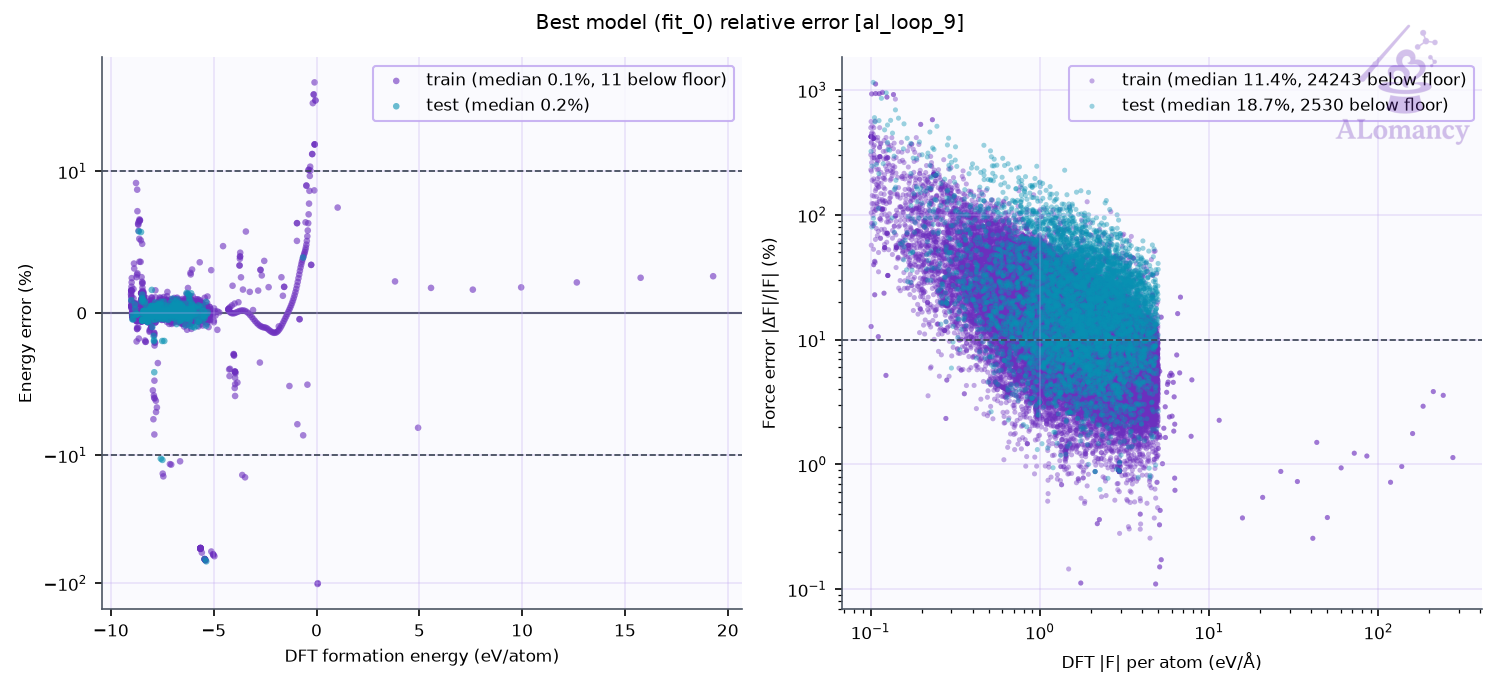
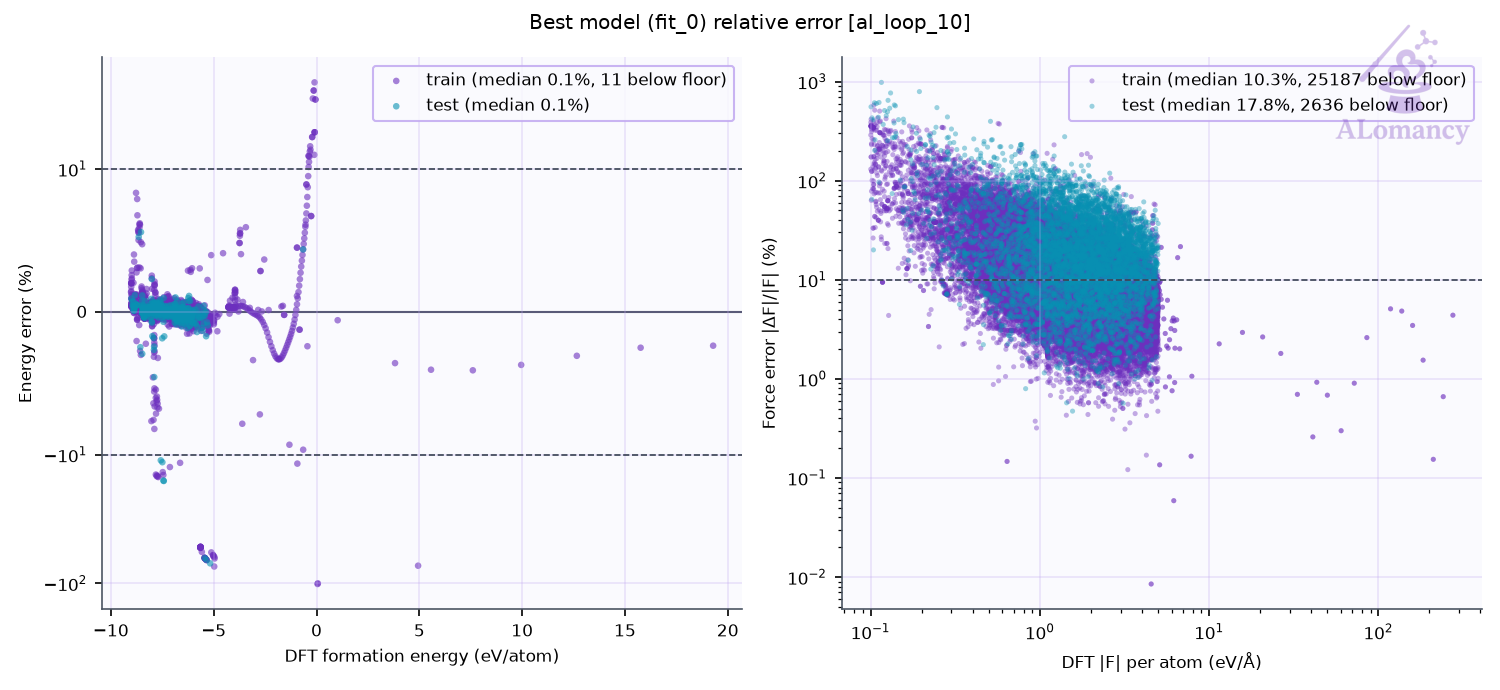
update good_c

diff --git a/alomancy/good_c/report/report.md b/alomancy/good_c/report/report.md
@@ -1,27 +1,25 @@
-# ALomancy report: al_loop_9
+# ALomancy report: al_loop_10
 
-Workflow `committee_uncertainty` · trainer `mace` · generator `md` · evaluator `qe` · generated 2026-11-14T14:02:43
+Workflow `committee_uncertainty` · trainer `mace` · generator `md` · evaluator `qe` · generated 2026-11-14T18:03:45
 
-**Status:** ✖ 2 errors · 💡 1 info · 12 warning(s) logged
+**Status:** ✓ no issues · 0 warning(s) logged
 
 ## Headline
 
-| | loop 8 | loop 9 | change |
+| | loop 9 | loop 10 | change |
 |---|---:|---:|---:|
-| Best model test force MAE (eV/Å) | 0.194 | 0.195 | +0% |
-| Best model test energy MAE (meV/atom) | 28.7 | 35.5 | +24% |
-| Training structures | 5.44e+03 | 5.59e+03 | +3% |
-| Test structures | 582 | 601 | +3% |
-| New structures this loop | 58 | 40 | -31% |
-| Warnings / errors logged | 17 | 12 | -29% |
+| Best model test force MAE (eV/Å) | 0.195 | 0.187 | -4% |
+| Best model test energy MAE (meV/atom) | 35.5 | 45.6 | +29% |
+| Training structures | 5.59e+03 | 5.59e+03 | +0% |
+| Test structures | 601 | 601 | +0% |
+| New structures this loop | 40 | 0 | -100% |
+| Warnings / errors logged | 12 | 0 | -100% |
 
 Best model: fit_0 of 3 (chosen on the `valid` split).
 
 ## Issues & suggestions
 
-- ✖ **remote_jobs_failed**: 8/156 remote jobs (5%) failed (7) or died (1). Check the job logs (results/alomancy.log has each failure's traceback); jobs killed by the scheduler usually need a longer max_time for that phase, or a partition with more memory.
-- ✖ **dft_partial_failure**: 8/100 structures sent to DFT (8%) came back without a result. Check the DFT output in results/<loop>/high_accuracy_evaluation; raise high_accuracy_evaluation.max_time / max_go_time if jobs timed out.
-- 💡 **queue_dominated**: high_accuracy_evaluation spent 51% of its time (15.3 h) queued. Raise max_num_of_concurrent_jobs in the HPC profile or use a less busy partition.
+No issues detected.
 
 ## Trends
 
@@ -37,6 +35,7 @@ Best model: fit_0 of 3 (chosen on the `valid` split).
 | 7 | 0.197 | 5308 | 21 | 32/100 | 100% | 0 | 71 |
 | 8 | 0.194 | 5440 | 58 | 86/100 | 99% | 0 | 17 |
 | 9 | 0.195 | 5592 | 40 | 92/100 | 96% | 0 | 12 |
+| 10 | 0.187 | 5592 | 0 | 0 | n/a | 0 | 0 |
 
 ![Best-model MAE per loop](plots/training_al_loop_mae_plot.png)
 
@@ -46,7 +45,7 @@ Best model: fit_0 of 3 (chosen on the `valid` split).
 
 ![Best model parity](plots/best_model_parity.png)
 
-Median relative error: train energy 0.1%, force 11.4%; test energy 0.2%, force 18.7%.
+Median relative error: train energy 0.1%, force 10.3%; test energy 0.1%, force 17.8%.
 Energies with |formation energy| < 0.05 eV/atom and atoms with |F| < 0.1 eV/Å are left out; force error is |ΔF|/|F| per atom.
 
 ![Best model percentage error](plots/best_model_percent_error.png)
@@ -68,71 +67,23 @@ Energies with |formation energy| < 0.05 eV/atom and atoms with |F| < 0.1 eV/Å a
 | on_hull_expansion | 11 | 0 | 9 | 20 |
 | **all** | **5592** | **601** | **1253** | **7446** |
 
-- Redundancy removal: 0 structure(s) flagged in total, 0 of this loop's 40 new.
-- DFT geometry-optimisation starting frames: 144 stored this loop, 131 used (the rest excluded by the train/test filters or redundancy removal).
+- Redundancy removal: 0 structure(s) flagged in total, 0 of this loop's 0 new.
 - Quality filters: high_force: 1244, formation_energy: 21.
 
 ![Training set composition](plots/training_set_composition.png)
 
-### Redundancy removal
-
-Redundancy removal flags near-duplicate training structures, so the model isn't trained on many copies of the same geometry. Each structure is described by `char_vec_128`: all of its interatomic distances, sorted and resampled to 128 values (`global_descriptor/atomic_distance_descriptor.make_char_vec`). Two structures count as duplicates when the Euclidean distance between their descriptors is below a tolerance: in database order, each structure still in the training set is kept unless it is within the tolerance of one already kept. The plot sweeps that tolerance and counts how many structures are kept at each value. **We are looking for plateaus** (shaded): ranges where the count doesn't change, so the result doesn't depend on the exact tolerance. The orange line (right axis) is the number of structures removed between consecutive tolerance steps, the gradient of the count: zero on a plateau. The start of the lowest plateau at least `general.redundancy_kwargs.min_plateau_width` of the swept range wide is used (dashed line). Nothing is flagged when no plateau qualifies, or when it would flag more than `max_flagged_fraction` of the structures; `general.redundancy_kwargs.tolerance` sets the tolerance directly.
-
-- This loop: 5,305 structures probed; the lowest plateau would flag more than 50% of them, so nothing was flagged.
-
-![Redundancy tolerance probe](plots/redundancy_tolerance_probe.png)
-
 ## DFT
 
-- Structures: 92 returned of 100 submitted (92 relaxed, 0 single point).
-- Geometry optimisation: 88/92 reached the force ceiling (0.05 eV/Å); steps mean 23.0, median 13, max 200 of 200 allowed.
-- Average DFT time per relaxation: 91.2 min (median 52.4, max 732.4; 92 structures).
-- Largest per-atom force after DFT: median 0.04, max 2.78 eV/Å.
-- DFT phase wall-clock: 30.3 h (mean queue time 918 min).
-
-**Structures evaluated with DFT this loop (final geometries)**
-
-![Structures evaluated with DFT this loop (final geometries)](plots/added_structures.gif)
+No DFT this loop.
 
 ## MLIP training: mace
 
-- Best fit (fit_0) trained for 299 epochs, stage two from epoch 240; weights kept from epoch 247.
+- Best fit (fit_0) trained for 299 epochs, stage two from epoch 240; weights kept from epoch 248.
 
 ![Best model training curve](plots/best_model_training_curve.png)
-
-## Structure generation: MD
-
-- Runs: 50 (50 completed, 0 seed(s) replaced)
-- Frames: 10000 recorded, 8933 physical (no bond < 0.5 Å, volume ≤ 3 x the seed's; 1017 frame(s) cut after a run expanded past it, seed frames left out), 1000 picked as candidates, spread over each run
-- Ensemble npt, T = 500 K, timestep 0.2 fs
-
-![MD frames per run](plots/md_frames_per_run.png)
-
-![MD temperature](plots/md_temperature.png)
-
-## High-accuracy evaluation: QE
-
-![DFT geometry steps](plots/dft_geometry_steps.png)
-
-![DFT wall time](plots/dft_wall_time.png)
-
-## Selection: committee uncertainty
-
-- 985 candidates scored; 100 selected (10 %; max force std dev ≥ 0.458 eV/Å).
-
-![Committee force std dev](plots/committee_force_std_dev.png)
 
 ## Warnings and events
 
 | event | meaning | count |
 |---|---|---:|
-| `blown_up_excluded` | blown-up cells kept from DFT (volume >> vdW volume) | 1 |
-| `dft_summary` | DFT batch summary | 1 |
-| `job_died` | remote job died (killed / lost) | 1 |
-| `job_failed` | remote job failed | 7 |
-| `job_resumed` | transient remote error, polling resumed | 1 |
-| `jobs_started` | remote jobs started | 4 |
-| `md_summary` | MD summary | 1 |
-| `md_volume_expanded` | MD runs cut after expanding past max_volume_ratio | 1 |
-| `quality_filtered` | train/test quality filter passes | 2 |
-| `redundancy_cap_hit` | redundancy removal skipped (would flag too many) | 1 |
+| `jobs_started` | remote jobs started | 1 |
